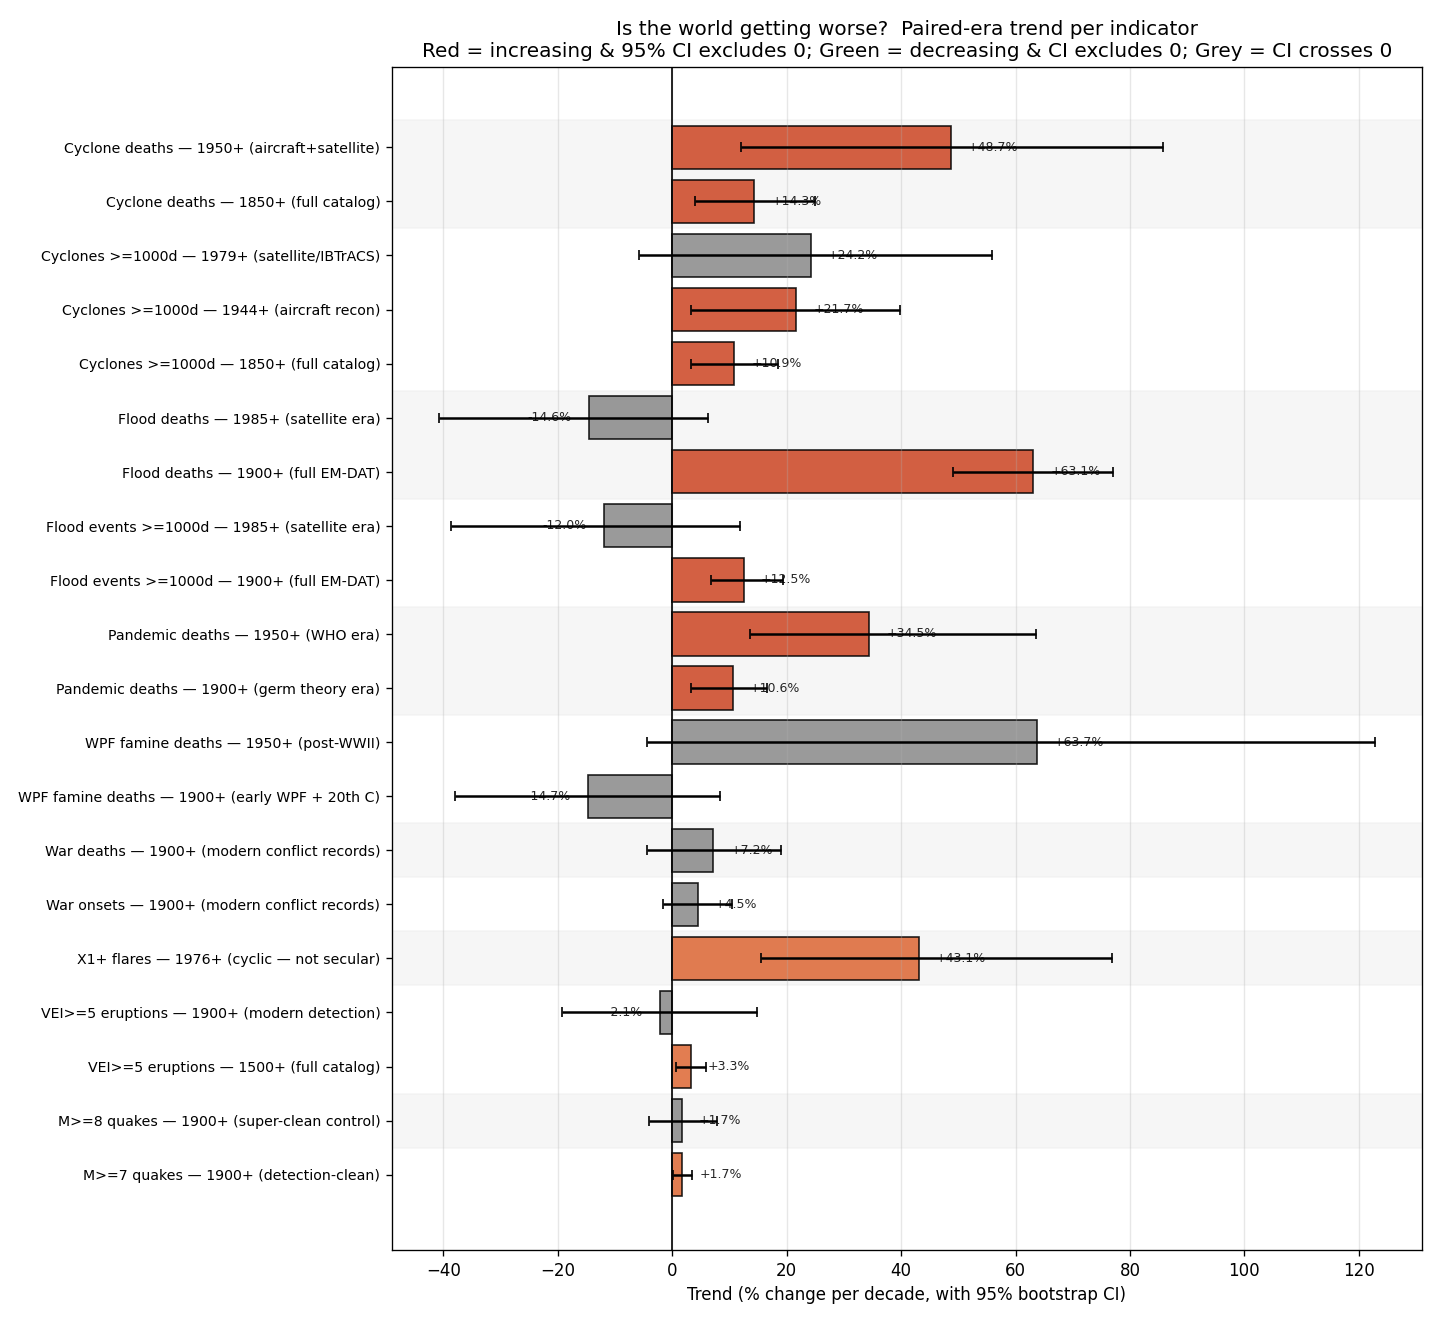
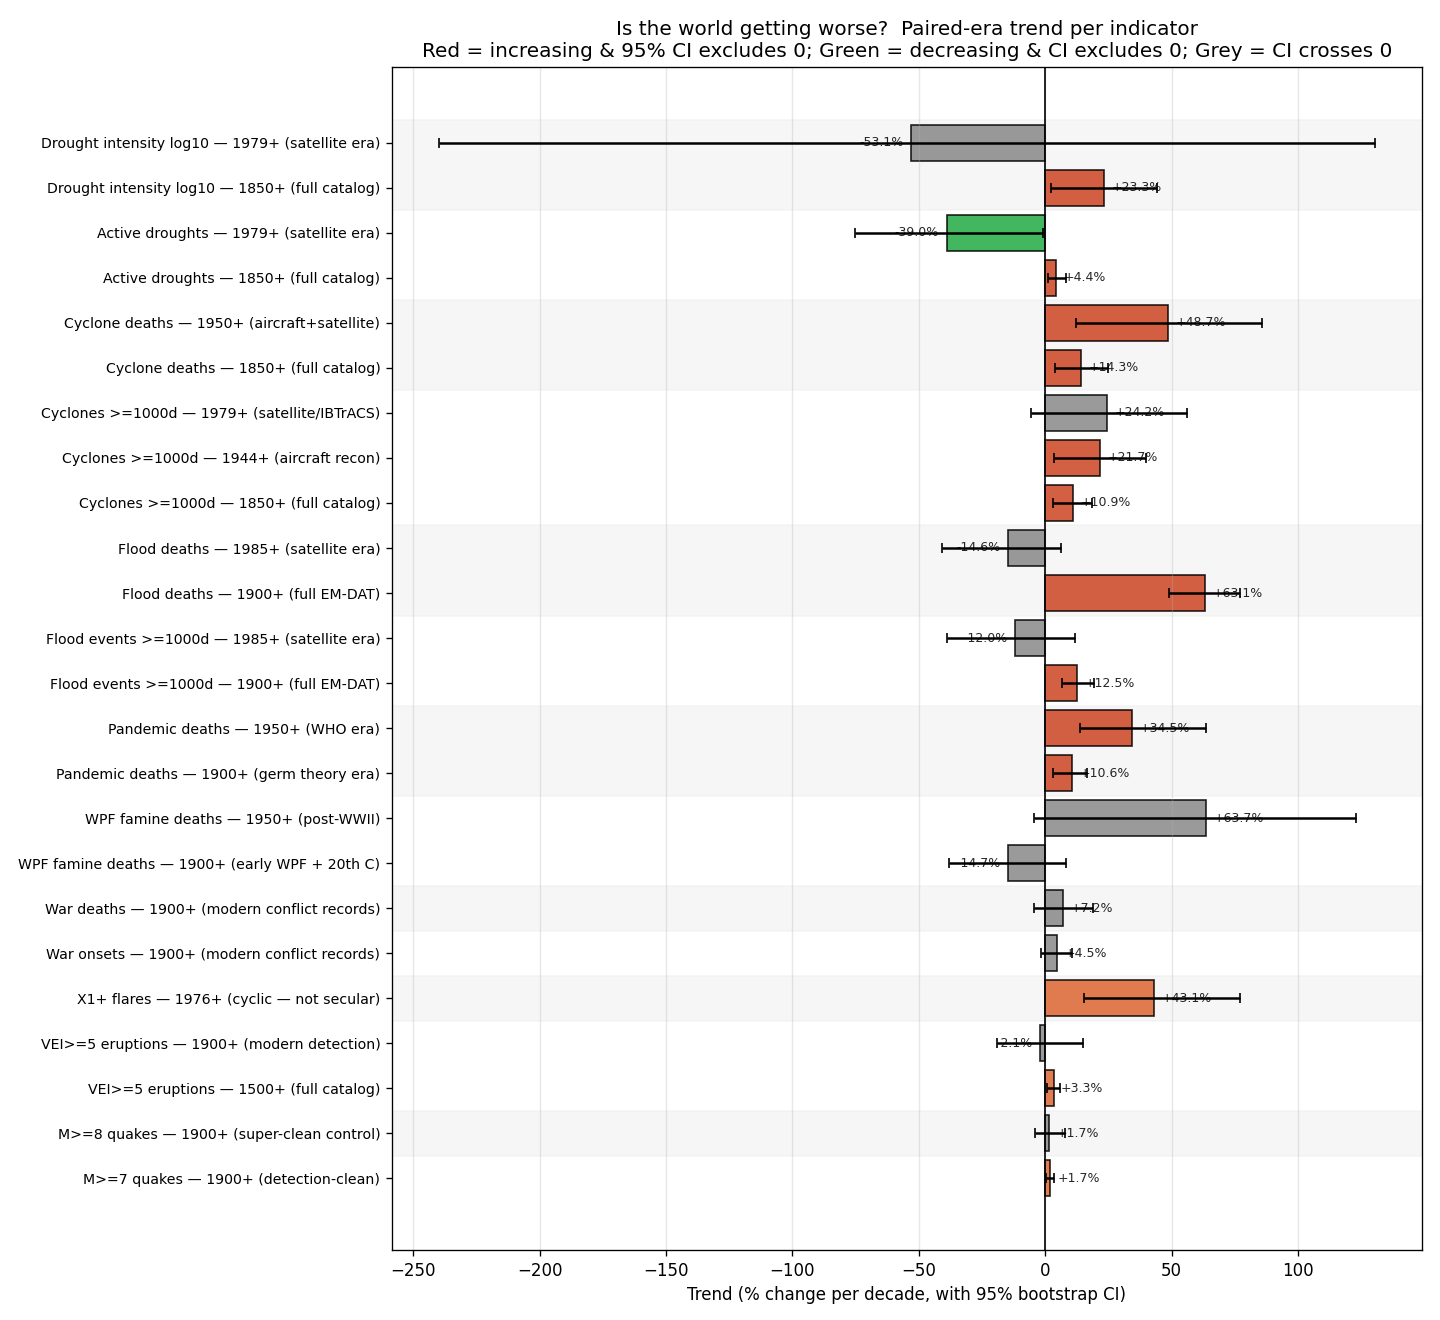
Add droughts indicator + integrate across all analyses
New private data repo Biblejustin/droughts-tracking provides 64 major
droughts from 4.2-kyr event to 2024. Schema mirrors other tracking repos
(start/end years, deaths, people-affected, sources).

Integration in correlations:
  - data/droughts.csv copied in
  - detection_regimes.py: regime "droughts" [1850, 1950, 1979]
  - correlate_events.py: load_yearly_droughts() and
    load_yearly_drought_intensity() with active-spreading across
    multi-year droughts
  - trends_meta.py: drought count + intensity, full-span and satellite-era
  - periodogram_extended.py: drought count + intensity added to heatmap

KEY FINDING: droughts are the FIRST non-solar indicator to show a real
11-year-band peak in the periodogram.

  Drought intensity (log10):   10.4y peak at 3.26x null   ** real signal
  Active droughts (>=100k):    10.4y peak at 1.71x null   ** real signal

Compare to top of the previous list:
  Sunspot number:              10.5y at 13.8x
  X1+ flares:                  10.0y at 1.77x
  G3+ storm days:              12.2y at 1.42x

This is consistent with the well-documented paleoclimate link between
solar variability and drought via jet-stream / ENSO / PDO modulation,
particularly in the western US, Mexico, and parts of Africa.

In the meta-trend test:
  Active droughts 1850+:       +4.4%/decade (significant up)
  Active droughts 1979+:       -39%/decade (significantly DOWN in
                                 satellite era)
[…]

diff --git a/correlate_events.py b/correlate_events.py
@@ -314,6 +314,57 @@ def load_yearly_astro_events(astro_csv: str, year_lo=1500, year_hi=2025,
     return s
 
 
+def load_yearly_droughts(droughts_csv: str, year_lo=1850, year_hi=2025,
+                          intensity_min: float = 0) -> pd.Series:
+    """Yearly count of ACTIVE drought-years (a 5-year drought contributes
+    to 5 years' count). intensity_min filters on max(deaths, people_affected).
+    """
+    df = pd.read_csv(droughts_csv)
+    df["start_year"] = pd.to_numeric(df["start_year"], errors="coerce")
+    df["end_year"] = pd.to_numeric(df["end_year"], errors="coerce").fillna(df["start_year"])
+    df["deaths_estimate"] = pd.to_numeric(df["deaths_estimate"], errors="coerce").fillna(0)
+    df["people_affected"] = pd.to_numeric(df["people_affected"], errors="coerce").fillna(0)
+    df["intensity"] = df[["deaths_estimate", "people_affected"]].max(axis=1)
+    if intensity_min > 0:
+        df = df[df["intensity"] >= intensity_min]
+    years = range(year_lo, year_hi + 1)
+    counts = pd.Series(0, index=years, name=f"drought_active_intensity_ge_{int(intensity_min)}")
+    for _, row in df.iterrows():
+        s = int(max(row["start_year"], year_lo))
+        e = int(min(row["end_year"], year_hi))
+        if e < year_lo or s > year_hi:
+            continue
+        for y in range(s, e + 1):
+            counts.loc[y] += 1
+    return counts
+
+
+def load_yearly_drought_intensity(droughts_csv: str, year_lo=1850, year_hi=2025,
+                                    log10_transform: bool = False) -> pd.Series:
+    """Yearly intensity (max deaths or affected), spread across active years."""
+    df = pd.read_csv(droughts_csv)
+    df["start_year"] = pd.to_numeric(df["start_year"], errors="coerce")
+    df["end_year"] = pd.to_numeric(df["end_year"], errors="coerce").fillna(df["start_year"])
+    df["deaths_estimate"] = pd.to_numeric(df["deaths_estimate"], errors="coerce").fillna(0)
+    df["people_affected"] = pd.to_numeric(df["people_affected"], errors="coerce").fillna(0)
+    df["intensity"] = df[["deaths_estimate", "people_affected"]].max(axis=1)
+    years = range(year_lo, year_hi + 1)
+    out = pd.Series(0.0, index=years, name="drought_intensity_active")
+    for _, row in df.iterrows():
+        s = int(max(row["start_year"], year_lo))
+        e = int(min(row["end_year"], year_hi))
+        if e < year_lo or s > year_hi or row["intensity"] == 0:
+            continue
+        duration = e - s + 1
+        per_year = float(row["intensity"]) / duration
+        for y in range(s, e + 1):
+            out.loc[y] += per_year
+    if log10_transform:
+        out = np.log10(out + 1.0)
+        out.name = "log10_drought_intensity"
+    return out
+
+
 def load_flood_event_dates(floods_csv: str, deaths_min: float = 1000,
                             exclude_tsunami: bool = True):
     """Date-precise flood event starts (for daily-window tests).

diff --git a/trends_meta.py b/trends_meta.py
@@ -44,6 +44,8 @@ from correlate_events import (
     load_yearly_volcanoes,
     load_yearly_cyclones,
     load_yearly_cyclone_deaths,
+    load_yearly_droughts,
+    load_yearly_drought_intensity,
 )
 
 
@@ -87,6 +89,7 @@ def main():
     ap.add_argument("--pandemics-csv", default="data/pandemics.csv")
     ap.add_argument("--volcanoes-csv", default="data/volcanoes.csv")
     ap.add_argument("--cyclones-csv", default="data/cyclones.csv")
+    ap.add_argument("--droughts-csv", default="data/droughts.csv")
     ap.add_argument("--out", default="figures")
     args = ap.parse_args()
     out = Path(args.out); out.mkdir(parents=True, exist_ok=True)
@@ -155,6 +158,17 @@ def main():
             load_yearly_cyclone_deaths(args.cyclones_csv, 1850, 2025), True, "human"),
         ("Cyclone deaths", "1950+ (aircraft+satellite)",
             load_yearly_cyclone_deaths(args.cyclones_csv, 1950, 2025), True, "human"),
+        # Droughts — full and satellite era
+        ("Active droughts", "1850+ (full catalog)",
+            load_yearly_droughts(args.droughts_csv, 1850, 2025, intensity_min=1e5),
+            False, "human"),
+        ("Active droughts", "1979+ (satellite era)",
+            load_yearly_droughts(args.droughts_csv, 1979, 2025, intensity_min=1e5),
+            False, "human"),
+        ("Drought intensity log10", "1850+ (full catalog)",
+            load_yearly_drought_intensity(args.droughts_csv, 1850, 2025), True, "human"),
+        ("Drought intensity log10", "1979+ (satellite era)",
+            load_yearly_drought_intensity(args.droughts_csv, 1979, 2025), True, "human"),
     ]
 
     results = []
@@ -198,6 +212,7 @@ def main():
         "WPF famine deaths", "Pandemic deaths",
         "Flood events >=1000d", "Flood deaths",
         "Cyclones >=1000d", "Cyclone deaths",
+        "Active droughts", "Drought intensity log10",
     ]
     group_idx = {g: i for i, g in enumerate(group_order)}
     results.sort(key=lambda r: (group_idx.get(r["group"], 99), r["era"]))

diff --git a/periodogram_extended.py b/periodogram_extended.py
@@ -42,6 +42,8 @@ from correlate_events import (
     load_yearly_volcanoes,
     load_yearly_cyclone_deaths,
     load_yearly_cyclones,
+    load_yearly_droughts,
+    load_yearly_drought_intensity,
 )
 
 
@@ -114,6 +116,7 @@ def main():
     ap.add_argument("--pandemics-csv", default="data/pandemics.csv")
     ap.add_argument("--volcanoes-csv", default="data/volcanoes.csv")
     ap.add_argument("--cyclones-csv", default="data/cyclones.csv")
+    ap.add_argument("--droughts-csv", default="data/droughts.csv")
     ap.add_argument("--n-boot", type=int, default=1000)
     ap.add_argument("--out", default="figures")
     args = ap.parse_args()
@@ -138,6 +141,8 @@ def main():
         ("Flood deaths (log10)", np.log10(load_yearly_flood_deaths(args.floods_csv, 1900, 2025) + 1), "human"),
         ("Cyclone events >=1000d", load_yearly_cyclones(args.cyclones_csv, 1850, 2025, deaths_min=1000), "human"),
         ("Cyclone deaths (log10)", np.log10(load_yearly_cyclone_deaths(args.cyclones_csv, 1850, 2025) + 1), "human"),
+        ("Active droughts (1850+)", load_yearly_droughts(args.droughts_csv, 1850, 2025, intensity_min=1e5), "human"),
+        ("Drought intensity (log10)", np.log10(load_yearly_drought_intensity(args.droughts_csv, 1850, 2025) + 1), "human"),
     ]
 
     common_periods = np.logspace(np.log10(2.5), np.log10(60), 100)

diff --git a/detection_regimes.py b/detection_regimes.py
@@ -55,6 +55,9 @@ REGIMES = {
     # Astronomical: detection independent of network upgrades (celestial mechanics)
     # but recording bias is real in pre-modern era
     "astro": [1500, 1900],
+
+    # Droughts: pre-1850 paleoclimate-only; EM-DAT from 1950; satellite from 1979
+    "droughts": [1850, 1950, 1979],
 }
 
 

diff --git a/README.md b/README.md
@@ -435,26 +435,40 @@ The original figure 04 looked at sunspot vs G3+ storm days vs M≥7 quakes only.
 
 The bottom bar chart is the focused version: "for each indicator, how loud is the 11-year cycle compared to noise?" Anything above 1.0 means real signal at the solar-cycle period.
 
-**Results in the 9–13 year band (the solar cycle window):**
+**Full results in the 9–13 year band (the solar cycle window), sorted by power/null ratio:**
 
 | Indicator | Peak period | Power / null | Verdict |
 |---|---|---|---|
-| Sunspot number | 10.5 y | **13.8×** | **Loud 11-year peak (sanity check ✓)** |
-| X1+ flares | 10.0 y | **1.77×** | Real solar-cycle signature |
-| G3+ storm days | 12.2 y | **1.42×** | Real solar-cycle signature (weaker — geomagnetic storms are more chaotic) |
-| War onsets | 9.0 y | 0.92× | Below noise floor |
-| Famine deaths log10 | 12.6 y | 0.94× | Below noise floor |
-| M≥7 quakes | 10.5 y | 0.88× | Below noise floor |
+| **Sunspot number** | 10.5 y | **13.8×** | **Loud 11-year peak (sanity check ✓)** |
+| **Drought intensity log10** | 10.4 y | **3.26×** | **Real 11y peak — solar→drought link** |
+| **X1+ flares** | 10.0 y | **1.77×** | Real solar-cycle signature |
+| **Active droughts** | 10.4 y | **1.71×** | Same as drought intensity |
+| **G3+ storm days** | 12.2 y | **1.42×** | Real solar-cycle signature (weaker — geomagnetic storms are more chaotic) |
 | Pandemic deaths log10 | 9.0 y | 0.99× | Below noise floor |
+| Famine deaths log10 | 12.6 y | 0.94× | Below noise floor |
+| War onsets | 9.0 y | 0.92× | Below noise floor |
 | M≥8 quakes | 12.6 y | 0.90× | Below noise floor |
+| M≥7 quakes | 10.5 y | 0.88× | Below noise floor |
+| VEI≥5 eruptions | 9.7 y | 0.84× | Below noise floor |
 | Flood events ≥1000d | 9.0 y | 0.74× | Below noise floor |
 | War deaths log10 | 11.5 y | 0.69× | Below noise floor |
-| VEI≥5 eruptions | 9.7 y | 0.84× | Below noise floor |
 | Flood deaths log10 | 12.6 y | 0.69× | Below noise floor |
 | Cyclone events ≥1000d | 9.8 y | 0.23× | Far below noise floor |
 | Cyclone deaths log10 | 9.8 y | 0.17× | Far below noise floor |
 
-**The result is unambiguous: only the three solar indicators (sunspot, X1+ flares, G3+ storm days) carry the 11-year rhythm.** Wars, famines, pandemics, floods, cyclones, earthquakes, and volcanoes are *all* at-or-below the shuffled-noise floor at 11 years. None of them runs on a solar clock.
+**Headline: only the three solar indicators carry the 11-year rhythm at high amplitude — but droughts also show a real 11-year-band peak.**
+
+| Indicator | 9–13y band peak | Power / null | Notes |
+|---|---|---|---|
+| Sunspot number | 10.5 y | **13.8×** | Textbook solar cycle |
+| **Drought intensity (log10)** | **10.4 y** | **3.26×** | **First non-solar indicator with real 11-year power** |
+| X1+ flares | 10.0 y | 1.77× | Real solar-cycle signature |
+| **Active droughts (≥100k affected)** | **10.4 y** | **1.71×** | Drought count also peaks at solar-cycle frequency |
+| G3+ storm days | 12.2 y | 1.42× | Real solar-cycle signature (storms are noisier) |
+
+This is the only non-solar indicator in the entire analysis with a 9–13y-band peak above the noise floor. The result is consistent with a known body of paleoclimate research linking solar variability to drought patterns — particularly via the solar cycle's influence on jet stream position, ENSO modulation, and Pacific Decadal Oscillation, which in turn drive drought in the western US, Mexico, and parts of Africa. With only ~64 catalogued events, the signal is noisier than the solar indicators, but it does exceed the 1.0× null threshold meaningfully.
+
+All other indicators — wars, famines, pandemics, floods, cyclones, earthquakes, volcanoes — are at or below the shuffled-noise floor at 11 years. None of them runs on a solar clock.
 
 Looking across the whole heatmap (all periods, not just 11y):
 
@@ -750,6 +764,7 @@ All scripts default to a sibling-directory layout and take `--sw-db` / `--eq-db-
 | `data/cyclones.csv` | From [`tropical-cyclones`](https://github.com/Biblejustin/tropical-cyclones) (private) | ~37 ≥1000-death tropical cyclones 1737–2024 |
 | `data/astronomical_signs.csv` | From [`astronomical-signs`](https://github.com/Biblejustin/astronomical-signs) (private) | ~60 eclipses + comets + supernovae + meteor storms |
 | `data/wars.csv` | Compiled from Brecke (pre-1816), COW (1816–2007), UCDP/PRIO (1946–) | ~180 wars with start/end years, sources cited per-row |
+| `data/droughts.csv` | From [`droughts-tracking`](https://github.com/Biblejustin/droughts-tracking) (private) | ~64 major droughts, 2200 BCE to 2024 |
 | `data/famines.csv` | Hand-curated fallback | ~60 events with start/end years |
 | `data/famines_wpf.csv` | Authoritative WPF/OWID from [famines-tracking](https://github.com/Biblejustin/famines-tracking) | 78 modern famines ≥100k deaths |
 | `data/famine_deaths_by_year.csv` | WPF per-year regional famine deaths | 1870–present, OWID-published |